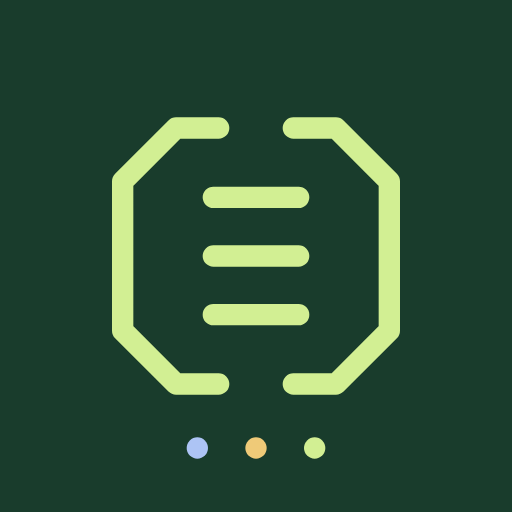
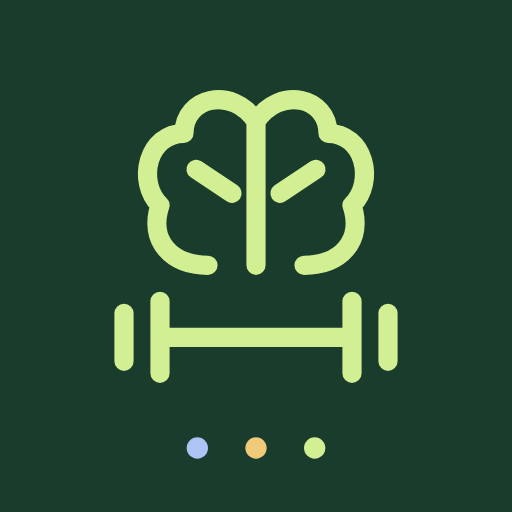
Rebrand the app as Bennys Brain Gym
Emphasize challenging, serious practice and performance-based adaptation without reward-loop gamification. Update bilingual copy, brain-and-dumbbell branding, install metadata and export filenames while retaining existing storage, backup compatibility and manifest identity.

Copilot-Session: 81bfe358-660b-4c4d-9066-80ad294a38e4

Changed region(s): [[0.2188, 0.1562, 0.7812, 0.7812], [0.6562, 0.2812, 0.6875, 0.3125], [0.3125, 0.2812, 0.3438, 0.3125]]

diff --git a/i18n.js b/i18n.js
@@ -2,8 +2,12 @@
 
 (() => {
   const pairs = {
-    "app.title": ["Cortex", "Cortex"],
-    "app.tagline": ["Practice, with perspective", "Üben mit Augenmaß"],
+    "app.title": ["Bennys Brain Gym", "Bennys Brain Gym"],
+    "app.description": [
+      "Bennys Brain Gym: challenging brain training, not easy-win games. Adaptive exercises respond to your performance. Serious practice, honest progress.",
+      "Bennys Brain Gym: anspruchsvolles Gehirntraining statt einfacher Spielsiege. Adaptive Übungen reagieren auf deine Leistung. Ernsthaft üben, Fortschritt ehrlich einordnen."
+    ],
+    "app.tagline": ["Challenge. Adapt. Train.", "Fordern. Anpassen. Trainieren."],
     "app.localOnly": ["Local only. No account. No network.", "Nur lokal. Kein Konto. Kein Netzwerk."],
     "nav.home": ["Practice", "Üben"],
     "nav.results": ["Results", "Ergebnisse"],
@@ -50,8 +54,8 @@
     "mode.training": ["Training", "Training"],
     "mode.assessment": ["Assessment", "Messung"],
     "mode.trainingHelp": [
-      "Practice with feedback and task-specific difficulty adjustments. Training scores reflect practice, not a fixed test.",
-      "Übe mit Rückmeldung und aufgabenspezifischer Schwierigkeitsanpassung. Trainingswerte beschreiben das Üben, keinen festen Test."
+      "Training gives feedback and adjusts difficulty on supported tasks. Your responses guide the challenge; these scores are practice, not a fixed test.",
+      "Training gibt Rückmeldung und passt bei unterstützten Aufgaben die Schwierigkeit an. Deine Antworten bestimmen die Herausforderung. Trainingswerte sind kein fester Test."
     ],
     "mode.assessmentHelp": [
       "Measure with a fixed protocol and no correctness feedback in the test block. Each task is available for assessment once every 14 days.",
@@ -191,8 +195,8 @@
       "Imported {added} sessions; {conflicts} ID conflicts preserved as separate sessions. Local preferences are retained when data already exists.",
       "{added} Sitzungen importiert; {conflicts} ID-Konflikte als separate Sitzungen erhalten. Lokale Einstellungen bleiben erhalten, wenn bereits Daten vorhanden sind."
     ],
-    "data.schema": ["This backup uses an unsupported schema version. Import a compatible Cortex JSON backup.", "Diese Sicherung verwendet eine nicht unterstützte Schemaversion. Importiere eine kompatible Cortex-JSON-Sicherung."],
-    "data.invalid": ["This is not a valid Cortex backup. Check the file and try an unmodified JSON export.", "Dies ist keine gültige Cortex-Sicherung. Prüfe die Datei und versuche einen unveränderten JSON-Export."],
+    "data.schema": ["This backup uses an unsupported schema version. Import a compatible Bennys Brain Gym JSON backup.", "Diese Sicherung verwendet eine nicht unterstützte Schemaversion. Importiere eine kompatible JSON-Sicherung von Bennys Brain Gym."],
+    "data.invalid": ["This is not a valid Bennys Brain Gym backup. Check the file and try an unmodified JSON export.", "Dies ist keine gültige Sicherung von Bennys Brain Gym. Prüfe die Datei und versuche einen unveränderten JSON-Export."],
     "data.duplicate": ["A duplicate session ID was found where it must be unique. The operation was rejected.", "Eine Sitzungs-ID wurde doppelt gefunden, obwohl sie eindeutig sein muss. Der Vorgang wurde abgelehnt."],
     "data.quota": ["Browser storage is full. Pending data remains in memory: export JSON now, then delete raw trial data to free space. Do not close or reload first.", "Der Browserspeicher ist voll. Ungespeicherte Daten bleiben im Arbeitsspeicher: Exportiere jetzt JSON und lösche danach Rohdaten, um Platz zu schaffen. Schließe oder lade die Seite nicht vorher neu."],
     "data.unavailable": ["Browser storage is unavailable or blocked. Data may last only until this page closes. Export JSON before leaving.", "Der Browserspeicher ist nicht verfügbar oder gesperrt. Daten bleiben möglicherweise nur bis zum Schließen dieser Seite erhalten. Exportiere vorher JSON."],
@@ -205,10 +209,15 @@
     "data.rawRows": ["Raw trial rows", "Rohdatenzeilen"],
     "data.sessions": ["Sessions", "Sitzungen"],
     "data.size": ["Stored data size", "Datenumfang"],
-    "data.importHelp": ["Choose a Cortex JSON backup. Matching sessions are merged; conflicting IDs are preserved. Forecast resolution updates are merged, while disagreements are kept as reviewable conflicts and excluded from calibration. Existing local preferences take priority when records exist. CSV exports cannot restore the app.", "Wähle eine Cortex-JSON-Sicherung. Identische Sitzungen werden zusammengeführt; ID-Konflikte bleiben erhalten. Prognoseauflösungen werden aktualisiert, widersprüchliche Versionen bleiben als prüfbare, von der Kalibrierung ausgenommene Konflikte erhalten. Bei vorhandenen Einträgen haben lokale Einstellungen Vorrang. CSV-Exporte können die App nicht wiederherstellen."],
+    "data.importHelp": ["Choose a Bennys Brain Gym JSON backup; older backups remain compatible. Matching sessions are merged; conflicting IDs are preserved. Forecast resolution updates are merged, while disagreements are kept as reviewable conflicts and excluded from calibration. Existing local preferences take priority when records exist. CSV exports cannot restore the app.", "Wähle eine JSON-Sicherung von Bennys Brain Gym. Ältere Sicherungen bleiben kompatibel. Identische Sitzungen werden zusammengeführt; ID-Konflikte bleiben erhalten. Prognoseauflösungen werden aktualisiert, widersprüchliche Versionen bleiben als prüfbare, von der Kalibrierung ausgenommene Konflikte erhalten. Bei vorhandenen Einträgen haben lokale Einstellungen Vorrang. CSV-Exporte können die App nicht wiederherstellen."],
     "data.exportOriginal": ["Export unreadable original", "Unlesbares Original exportieren"],
 
-    "about.title": ["Practice, without overpromising", "Üben ohne überzogene Versprechen"],
+    "about.title": ["Serious training. Honest limits.", "Ernsthaftes Training. Ehrliche Grenzen."],
+    "about.purpose": ["A brain gym, not a reward machine", "Ein Gehirn-Gym statt einer Belohnungsmaschine"],
+    "about.purposeText": [
+      "Bennys Brain Gym is for people who want challenging, repeatable practice, not manufactured wins, points, badges or streak pressure. Adaptive exercises use your responses to adjust difficulty within your settings and retain eligible progress for the same setup. Non-adaptive tasks and assessments keep their own protocols. This is a serious practice tool, not a diagnosis, treatment or promise of higher intelligence.",
+      "Bennys Brain Gym richtet sich an Menschen, die anspruchsvoll und wiederholbar üben wollen, statt künstliche Siege, Punkte, Abzeichen oder Druck durch Trainingsserien zu sammeln. Adaptive Übungen passen anhand deiner Antworten die Schwierigkeit innerhalb deiner Einstellungen an und speichern geeignete Fortschritte für denselben Aufbau. Nicht adaptive Aufgaben und Messungen behalten ihre eigenen Abläufe. Dies ist ein ernsthaftes Übungswerkzeug, keine Diagnose, Behandlung oder Garantie höherer Intelligenz."
+    ],
     "about.evidence": ["What training can—and cannot—show", "Was Training zeigen kann – und was nicht"],
     "about.evidenceText": ["Gains on trained tasks are reliable. Near transfer to closely related tasks is generally modest. Against active controls, far transfer to fluid intelligence or everyday cognition is near zero on average. Better scores here primarily demonstrate learning these tasks, not becoming generally smarter.", "Verbesserungen in trainierten Aufgaben sind gut belegt. Nahtransfer auf eng verwandte Aufgaben ist meist gering. Gegenüber aktiven Kontrollgruppen liegt Ferntransfer auf fluide Intelligenz oder Alltagskognition im Mittel nahe null. Bessere Werte hier zeigen vor allem das Erlernen dieser Aufgaben, keine allgemeine Intelligenzsteigerung."],
     "about.ufov": ["UFOV: promising evidence, specific interventions", "UFOV: vielversprechende Evidenz, spezifische Interventionen"],
@@ -1073,30 +1082,30 @@
 });
 
   Object.assign(pairs, {
-    "app.tagline": ["A daily practice space", "Raum für tägliches Üben"],
+    "app.tagline": ["Challenge. Adapt. Train.", "Fordern. Anpassen. Trainieren."],
     "app.localOnly": ["Private by default. Training stays in this browser.", "Privat als Standard. Dein Training bleibt in diesem Browser."],
     "nav.home": ["Today", "Heute"],
     "nav.library": ["Exercises", "Übungen"],
     "nav.results": ["Progress", "Fortschritt"],
     "nav.main": ["Main navigation", "Hauptnavigation"],
-    "nav.more": ["More about Cortex", "Mehr über Cortex"],
+    "nav.more": ["More about Bennys Brain Gym", "Mehr über Bennys Brain Gym"],
     "nav.skip": ["Skip to content", "Zum Inhalt springen"],
     "nav.notFound": ["This page isn't here.", "Diese Seite gibt es nicht."],
     "nav.notFoundHelp": ["Use the navigation to return to your practice space.", "Kehre über die Navigation zu deinem Training zurück."],
     "common.noValue": ["—", "—"],
-    "home.title": ["Make time for your mind.", "Zeit für deinen Kopf."],
-    "home.subtitle": ["A focused routine for memory, attention and reasoning. One round at a time, at your own pace.", "Eine klare Routine für Gedächtnis, Aufmerksamkeit und Denken. Eine Runde nach der anderen, in deinem Tempo."],
-    "home.finishedTitle": ["Today's routine is finished.", "Deine heutige Routine ist beendet."],
-    "home.finishedHelp": ["Your completed rounds are saved. Leave it here, or choose another exercise if you feel like it.", "Deine abgeschlossenen Runden sind gespeichert. Für heute ist das genug. Wenn du möchtest, wähle eine weitere Übung."],
+    "home.title": ["Challenge your mind.", "Fordere deinen Kopf."],
+    "home.subtitle": ["Challenging brain training, not easy-win games. Adaptive exercises respond to your performance as you train. Serious practice, honest progress.", "Anspruchsvolles Gehirntraining statt einfacher Spielsiege. Adaptive Übungen reagieren beim Training auf deine Leistung. Ernsthaft üben, Fortschritt ehrlich einordnen."],
+    "home.finishedTitle": ["Today's training is finished.", "Dein heutiges Training ist beendet."],
+    "home.finishedHelp": ["Completed rounds are saved. Review your task-specific progress or take a break. No badges to earn, no streak to protect.", "Abgeschlossene Runden sind gespeichert. Schaue dir deinen aufgabenspezifischen Fortschritt an oder pausiere. Keine Abzeichen, keine Trainingsserie, die du schützen musst."],
     "home.week": ["The last 7 days", "Die letzten 7 Tage"],
     "home.weekLabel": ["Practice activity over the last seven days", "Trainingsaktivität der letzten sieben Tage"],
     "home.practiceDays": ["{count} days of practice", "{count} Tage geübt"],
     "home.practiceDays.one": ["{count} day of practice", "{count} Tag geübt"],
     "home.practiced": ["Practiced", "Geübt"],
     "home.notPracticed": ["No completed round", "Keine abgeschlossene Runde"],
-    "home.consistency": ["Small, repeatable sessions. No catching up required.", "Kleine, wiederholbare Einheiten. Du musst nichts nachholen."],
-    "home.pickTitle": ["Prefer to choose?", "Lieber selbst wählen?"],
-    "home.pickHelp": ["Explore the full library, save your favourites, or revisit a familiar exercise.", "Entdecke alle Übungen, speichere Favoriten oder übe eine vertraute Aufgabe."],
+    "home.consistency": ["A record of practice, not a streak to protect. Train consistently; take breaks when you need them.", "Ein Trainingsprotokoll, keine Serie, die du schützen musst. Übe regelmäßig und pausiere, wenn du es brauchst."],
+    "home.pickTitle": ["Train skills. Not points.", "Trainiere Fähigkeiten. Nicht Punkte."],
+    "home.pickHelp": ["Choose a specific challenge, revisit a demanding exercise, or save your favourites. Practice is the purpose, not easy wins.", "Wähle eine Herausforderung, wiederhole eine anspruchsvolle Übung oder speichere Favoriten. Üben ist das Ziel, nicht einfache Siege."],
     "home.explore": ["Browse exercises", "Übungen entdecken"],
     "home.perspective": ["Progress is specific to the tasks you practice, not a universal brain score.", "Fortschritt bezieht sich auf die geübten Aufgaben, nicht auf einen allgemeinen Gehirnwert."],
     "home.evidenceLink": ["Evidence & limitations", "Evidenz & Grenzen"],
@@ -1107,9 +1116,9 @@
     ],
     "about.designSources": ["Color & accessibility references", "Quellen zu Farbe & Zugänglichkeit"],
     "about.accessibilitySource": ["W3C: Web Content Accessibility Guidelines 2.2", "W3C: Richtlinien für barrierefreie Webinhalte 2.2"],
-    "routine.eyebrow": ["A steady start", "Ein ruhiger Start"],
+    "routine.eyebrow": ["Your daily challenge", "Deine tägliche Herausforderung"],
     "routine.title": ["Morning practice", "Morgentraining"],
-    "routine.intro": ["A balanced mix of focus, memory and reasoning. Find a quiet spot and take it one round at a time.", "Eine ausgewogene Mischung aus Fokus, Gedächtnis und Denken. Suche dir einen ruhigen Ort und beginne mit der ersten Runde."],
+    "routine.intro": ["A focused mix of memory, attention and reasoning. Work at your level; adaptive tasks adjust as your performance changes.", "Ein klarer Mix aus Gedächtnis, Aufmerksamkeit und Denken. Übe auf deinem Niveau. Adaptive Aufgaben passen sich an deine Leistung an."],
     "routine.start": ["Begin morning practice", "Morgentraining beginnen"],
     "routine.adjust": ["Change time budget", "Zeitbudget ändern"],
     "routine.resume": ["Continue your practice", "Training fortsetzen"],
@@ -1132,12 +1141,12 @@
     "routine.returnHome": ["Back to today", "Zurück zu Heute"],
     "routine.finishedEyebrow": ["Practice, not perfection", "Üben statt Perfektion"],
     "routine.finishedTitle": ["Your practice is finished.", "Dein Training ist beendet."],
-    "routine.finishedHelp": ["Completed rounds are saved on this device. A little consistency matters more than a perfect score.", "Abgeschlossene Runden sind auf diesem Gerät gespeichert. Regelmäßiges Üben ist wichtiger als ein perfektes Ergebnis."],
+    "routine.finishedHelp": ["Completed rounds and eligible adaptive progress are saved on this device. Review your task results or take a break. No reward loop to keep you here.", "Abgeschlossene Runden und geeignete adaptive Fortschritte sind auf diesem Gerät gespeichert. Prüfe deine Ergebnisse oder pausiere. Keine Belohnungsschleife, die dich hier halten soll."],
     "routine.completedRounds": ["Rounds completed", "Abgeschlossene Runden"],
     "routine.timePracticed": ["Time in completed rounds", "Zeit in abgeschlossenen Runden"],
     "routine.invalid": ["This saved routine cannot be resumed with the current exercises. Your history is safe; export a backup and start a new routine.", "Diese gespeicherte Routine passt nicht zu den verfügbaren Übungen. Dein Verlauf bleibt erhalten. Exportiere eine Sicherung und beginne eine neue Routine."],
     "library.title": ["Find your next exercise.", "Finde deine nächste Übung."],
-    "library.subtitle": ["Choose a skill, get clear instructions, and practice at your own pace. Save exercises you want to revisit.", "Wähle eine Fähigkeit, lies die klare Anleitung und übe in deinem Tempo. Speichere Übungen, zu denen du zurückkehren möchtest."],
+    "library.subtitle": ["Demanding exercises, clear instructions, no reward loops. Choose your challenge; adaptive tasks respond to your training.", "Anspruchsvolle Übungen, klare Anleitungen, keine Belohnungsschleifen. Wähle deine Herausforderung. Adaptive Aufgaben reagieren auf dein Training."],
     "library.search": ["Find an exercise", "Übung suchen"],
     "library.filter": ["Filter exercises by skill", "Übungen nach Fähigkeit filtern"],
     "library.saved": ["Saved", "Gespeichert"],
@@ -1220,9 +1229,9 @@
     "data.manage": ["Manage storage & delete data", "Speicher verwalten & Daten löschen"],
     "data.pruneConfirm": ["Delete all raw trial data? Session summaries, scores and forecasts remain. This cannot be undone without a backup.", "Alle Rohdaten der Durchgänge löschen? Sitzungszusammenfassungen, Ergebnisse und Prognosen bleiben erhalten. Ohne Sicherung ist dies nicht rückgängig zu machen."],
     "data.otherTab": ["Another tab changed your data during this session. This tab will not overwrite it. Export any pending work before reloading, then merge your backup from Your data.", "Ein anderer Tab hat während dieser Sitzung Daten geändert. Dieser Tab überschreibt sie nicht. Exportiere ungespeicherte Arbeit vor dem Neuladen und führe die Sicherung danach unter Deine Daten zusammen."],
-    "pwa.title": ["Use Cortex on your phone", "Cortex auf dem Smartphone nutzen"],
-    "pwa.install": ["Install Cortex", "Cortex installieren"],
-    "pwa.installHelp": ["On iPhone or iPad, open Cortex in Safari and choose Share → Add to Home Screen. On Android or desktop, use your browser's Install app option. Once the app has loaded and its offline cache is ready, the exercises work without a connection.", "Öffne Cortex auf dem iPhone oder iPad in Safari und wähle Teilen → Zum Home-Bildschirm. Nutze auf Android oder am Desktop die Option App installieren des Browsers. Nachdem die App geladen und der Offline-Speicher bereit ist, funktionieren die Übungen ohne Verbindung."],
+    "pwa.title": ["Use Bennys Brain Gym on your phone", "Bennys Brain Gym auf dem Smartphone nutzen"],
+    "pwa.install": ["Install Bennys Brain Gym", "Bennys Brain Gym installieren"],
+    "pwa.installHelp": ["On iPhone or iPad, open Bennys Brain Gym in Safari and choose Share → Add to Home Screen. On Android or desktop, use your browser's Install app option. Once the app has loaded and its offline cache is ready, the exercises work without a connection.", "Öffne Bennys Brain Gym auf dem iPhone oder iPad in Safari und wähle Teilen → Zum Home-Bildschirm. Nutze auf Android oder am Desktop die Option App installieren des Browsers. Nachdem die App geladen und der Offline-Speicher bereit ist, funktionieren die Übungen ohne Verbindung."],
     "pwa.originNote": ["Installation and offline caching need HTTPS, or localhost for development. Keep using the same address and browser for your history; phone and desktop storage are separate.", "Installation und Offline-Speicherung benötigen HTTPS oder localhost bei der Entwicklung. Nutze für deinen Verlauf dieselbe Adresse und denselben Browser. Smartphone- und Desktop-Speicher sind getrennt."],
     "pwa.update": ["App update ready", "App-Update bereit"],
     "pwa.updateReady": ["An app update is ready. Use App update ready in the footer between rounds to apply it.", "Ein App-Update ist bereit. Wähle zwischen den Runden App-Update bereit in der Fußzeile, um es anzuwenden."],

diff --git a/index.html b/index.html
@@ -17,11 +17,11 @@
           preference : matchMedia("(prefers-color-scheme: dark)").matches ? "dark" : "light");
       })();
     </script>
-    <title data-i18n="app.title">Cortex</title>
-    <meta name="description" content="A calm, local-first daily practice space for memory, attention and reasoning.">
+    <title data-i18n="app.title">Bennys Brain Gym</title>
+    <meta name="description" content="Bennys Brain Gym: challenging brain training, not easy-win games. Adaptive exercises respond to your performance. Serious practice, honest progress.">
     <meta name="theme-color" content="#f3f5ef">
     <meta name="apple-mobile-web-app-capable" content="yes">
-    <meta name="apple-mobile-web-app-title" content="Cortex">
+    <meta name="apple-mobile-web-app-title" content="Bennys Brain Gym">
     <link rel="icon" href="icons/icon.svg" type="image/svg+xml">
     <link rel="apple-touch-icon" href="icons/icon-192.png">
     <link rel="manifest" href="manifest.webmanifest">
@@ -47,12 +47,12 @@
     <header id="header">
       <div class="shell">
         <div class="header-inner">
-          <a class="brand" href="#home">
+          <a class="brand" href="#home" aria-label="Bennys Brain Gym" data-i18n-aria="app.title">
             <svg class="brand-mark" width="40" height="40" viewBox="0 0 32 32" aria-hidden="true">
               <rect class="brand-tile" width="32" height="32" rx="8"></rect>
-              <path d="M13 5H9L4 10v12l5 5h4M19 5h4l5 5v12l-5 5h-4M12 11h8M12 16h8M12 21h8"></path>
+              <path d="M16 7c-2-3-6-2-6 1-3 0-4 4-2 6-1 3 1 5 4 5M16 7c2-3 6-2 6 1 3 0 4 4 2 6 1 3-1 5-4 5M16 7v12m-5-8 3 2m7-2-3 2M8 25h16m-16-3v6m16-6v6M5 23v4m22-4v4"></path>
             </svg>
-            <span class="brand-text">Cortex<small><span data-i18n="app.tagline"></span></small></span>
+            <span class="brand-text"><span class="brand-name">Bennys <span>Brain Gym</span></span><small><span data-i18n="app.tagline"></span></small></span>
           </a>
           <nav class="main-nav" data-i18n-aria="nav.main">
             <a href="#home"><svg viewBox="0 0 24 24" aria-hidden="true"><path d="m3 10 9-7 9 7v10H3Z M9 20v-7h6v7"/></svg><span data-i18n="nav.home">Today</span></a>
@@ -68,7 +68,7 @@
 
     <div id="notifications" class="shell" aria-live="polite" aria-atomic="true"></div>
     <main id="app" class="shell" tabindex="-1"></main>
-    <noscript><p class="shell">Cortex needs JavaScript to run its exercises. Enable JavaScript and reload. No account is required.</p></noscript>
+    <noscript><p class="shell">Bennys Brain Gym needs JavaScript to run its exercises. Enable JavaScript and reload. No account is required.</p></noscript>
 
     <section id="runner" hidden aria-describedby="runner-description">
       <canvas id="stage" tabindex="0" role="img" aria-describedby="runner-description"></canvas>

diff --git a/js/ui.js b/js/ui.js
@@ -123,6 +123,7 @@
   function header() {
     document.documentElement.lang = C.language;
     document.title = C.t("app.title");
+    document.querySelector('meta[name="description"]')?.setAttribute("content", C.t("app.description"));
     document.querySelectorAll("[data-i18n]").forEach(node => { node.textContent = C.t(node.dataset.i18n); });
     document.querySelectorAll("[data-i18n-aria]").forEach(node => node.setAttribute("aria-label", C.t(node.dataset.i18nAria)));
     const route = (location.hash.slice(1) || "home").split("/")[0];
@@ -648,7 +649,7 @@
   function exportCSV() {
     const keys = ["id", "taskId", "mode", "startedAt", "durationMs", "language", "deviceClass", "inputMethod", "refreshHz", "viewport",
       "invalid", "invalidReasons", "practiceOnly", "completedMain", "practiceCount", "protocolVersion", "routineId", "params", "score"];
-    C.download(`cortex-${C.iso().slice(0, 10)}.csv`, "\ufeff" + [keys.map(C.csvCell).join(","),
+    C.download(`bennys-brain-gym-${C.iso().slice(0, 10)}.csv`, "\ufeff" + [keys.map(C.csvCell).join(","),
       ...C.Storage.getSessions().map(row => keys.map(key => C.csvCell(row[key])).join(","))].join("\r\n"), "text/csv;charset=utf-8");
   }
   function dataView() {
@@ -707,7 +708,7 @@
   }
   function about() {
     app().innerHTML = `<section class="hero"><h1>${text("about.title")}</h1><p>${text("app.localOnly")}</p></section>
-      <section class="card prose">${["evidence", "design", "ufov", "measurement", "modes", "reliability", "devices", "limitations", "privacy", "tierTwo"].map(key =>
+      <section class="card prose">${["purpose", "evidence", "design", "ufov", "measurement", "modes", "reliability", "devices", "limitations", "privacy", "tierTwo"].map(key =>
         `<h2>${text(`about.${key}`)}</h2><p>${text(`about.${key}Text`)}</p>`).join("")}
       <h2>${text("about.designSources")}</h2><ul>
       <li><a href="https://doi.org/10.3389/fpsyg.2015.00368">Elliot (2015): Color and psychological functioning</a></li>

diff --git a/js/core.js b/js/core.js
@@ -225,7 +225,7 @@ window.Cortex = {};
     get hasUnreadableOriginal() { return unreadableOriginal !== null; },
     exportOriginal() {
       if (unreadableOriginal === null) throw new Error("data.invalid");
-      C.download(`cortex-recovery-${C.iso().slice(0, 10)}.json`, unreadableOriginal, "application/json");
+      C.download(`bennys-brain-gym-recovery-${C.iso().slice(0, 10)}.json`, unreadableOriginal, "application/json");
     },
     getSettings: () => C.clone(root.settings),
     setSettings(settings) { root.settings = { ...root.settings, ...sanitize(C.clone(settings)) }; return persist(); },
@@ -304,7 +304,7 @@ window.Cortex = {};
     snapshot: () => C.clone(root),
     exportAll() {
       const text = JSON.stringify(root, null, 2);
-      C.download(`cortex-${C.iso().slice(0, 10)}.json`, text, "application/json");
+      C.download(`bennys-brain-gym-${C.iso().slice(0, 10)}.json`, text, "application/json");
       return text;
     },
     async importAll(file) {

diff --git a/js/forecasting.js b/js/forecasting.js
@@ -80,7 +80,7 @@
     const fields = ["id","claim","topic","probability","resolveBy","createdAt","language","status","outcome","resolvedAt","conflictOf"];
     const rows = C.Storage.getForecasts();
     const csv = "\ufeff" + [fields.map(C.csvCell).join(","), ...rows.map(row => fields.map(key => C.csvCell(row[key])).join(","))].join("\r\n");
-    C.download(`cortex-forecasts-${C.iso().slice(0, 10)}.csv`, csv, "text/csv;charset=utf-8");
+    C.download(`bennys-brain-gym-forecasts-${C.iso().slice(0, 10)}.csv`, csv, "text/csv;charset=utf-8");
   }
   const task = {
     tier: 2, kind: "journal", supportsAssessment: false, staircase: null, languageDependent: true,

diff --git a/js/generators.js b/js/generators.js
@@ -21,7 +21,7 @@
   const signed = (minimum, maximum) => random(minimum, maximum) * pick([-1, 1]);
   const equal = (left, right) => C.canonical(left) === C.canonical(right);
   const requireInvariant = (condition, message) => {
-    if (!condition) throw new Error(`Cortex generator invariant: ${message}`);
+    if (!condition) throw new Error(`Bennys Brain Gym generator invariant: ${message}`);
   };
 
   function validateArguments(level, usedSet) {

diff --git a/styles.css b/styles.css
@@ -364,6 +364,11 @@ pre {
   letter-spacing: 0.035em;
 }
 
+.brand-name,
+.brand-name > span {
+  white-space: nowrap;
+}
+
 .main-nav {
   display: flex;
   align-items: center;
@@ -2073,7 +2078,11 @@ html[data-theme="dark"] textarea::placeholder {
   }
 
   .brand small {
-    font-size: 0.625rem;
+    display: none;
+  }
+
+  .brand-name > span {
+    display: block;
   }
 
   .header-controls {

diff --git a/sw.js b/sw.js
@@ -1,7 +1,7 @@
 "use strict";
 
 const CACHE_PREFIX = `cortex-shell-${self.registration.scope}-`;
-const CACHE = `${CACHE_PREFIX}v4`;
+const CACHE = `${CACHE_PREFIX}v5`;
 const ASSETS = [
   "./", "index.html", "styles.css", "i18n.js", "app.js", "manifest.webmanifest",
   "icons/icon.svg", "icons/icon-192.png", "icons/icon-512.png",

diff --git a/README.md b/README.md
@@ -1,6 +1,8 @@
-# Cortex
+# Bennys Brain Gym
 
-A calm, local-first space for daily memory, attention and reasoning practice. Cortex has 25 timed exercises and an untimed forecasting journal, with English/German interfaces, keyboard/mouse/touch controls, and no account or backend.
+Challenging brain training, not easy-win games. Bennys Brain Gym is a serious, local-first tool for memory, attention and reasoning practice, with 25 timed exercises and an untimed forecasting journal. It supports English/German interfaces, keyboard/mouse/touch controls, and requires no account or backend.
+
+There are no points, badges, leaderboards or streak rewards. Progress records describe your practice, not a game to win. Supported adaptive exercises use your responses to adjust difficulty within your configured bounds and remember eligible progress for the same setup. Assessments remain fixed; not every exercise adapts. The purpose is meaningful, repeatable practice, not a claim of general cognitive improvement or medical benefit.
 
 ## Run locally
 
@@ -51,7 +53,7 @@ Audio n-back uses **local speech voices only**, with distinct letter-name and wo
 
 ## Visual design and color evidence
 
-Cortex uses forest green and lime as its visual identity, with cobalt (memory), ochre (attention), green (reasoning), copper (learning) and slate (forecasting). Category colors always accompany written labels and distinct icons. Light and dark themes use semantic `--cp-*` tokens, contrast-tested text, visible focus indicators and reduced-motion support. The decorative orbital illustration is static and never appears in a timed round. Exercise backgrounds and stimulus colors remain independent of the interface theme.
+Bennys Brain Gym uses forest green and lime as its visual identity, with cobalt (memory), ochre (attention), green (reasoning), copper (learning) and slate (forecasting). Category colors always accompany written labels and distinct icons. Light and dark themes use semantic `--cp-*` tokens, contrast-tested text, visible focus indicators and reduced-motion support. The decorative orbital illustration is static and never appears in a timed round. Exercise backgrounds and stimulus colors remain independent of the interface theme.
 
 This is an evidence-informed usability decision, **not a claim that a palette improves cognition**. Color-psychology findings depend on task, difficulty, context and individual differences; effects of blue-enriched illumination are not evidence that a blue button improves performance. The palette prioritizes readable contrast, predictable navigation and restrained decoration over physiological or clinical promises.
 
@@ -77,6 +79,8 @@ Open **Your data**, or **Settings > Backups & data**, to export and restore.
 - **CSV** is for analysis, not restoration. Formula-like text is neutralized without turning negative numeric values into text formulas.
 - Restore merges records. Identical sessions and trial rows are deduplicated; conflicting sessions are preserved as variants. Repeatedly restoring the same conflict does not create endless copies. Existing local preferences and adaptive state win on a nonempty restore; an empty restore adopts the incoming preferences.
 - Forecast claims/probabilities are immutable after saving. Compatible open-to-resolved imports can update outcomes; incompatible variants require explicit conflict review. Accepting a variant voids the previous non-conflict version rather than silently combining contradictory forecasts.
+
+The rebrand retains the existing app URL, manifest identity and storage keys, so installed apps and saved history remain compatible. New downloads use the `bennys-brain-gym-` prefix; older JSON backups still restore without renaming or migration.
 
 Data remains in browser `localStorage` under **`cortex.v1`**, with root schema version **1**. Forecast drafts are tab-local in `sessionStorage`; an unsaved draft is not included in a JSON backup. Save it as a forecast before exporting, or copy it out if browser draft storage is unavailable.
 
